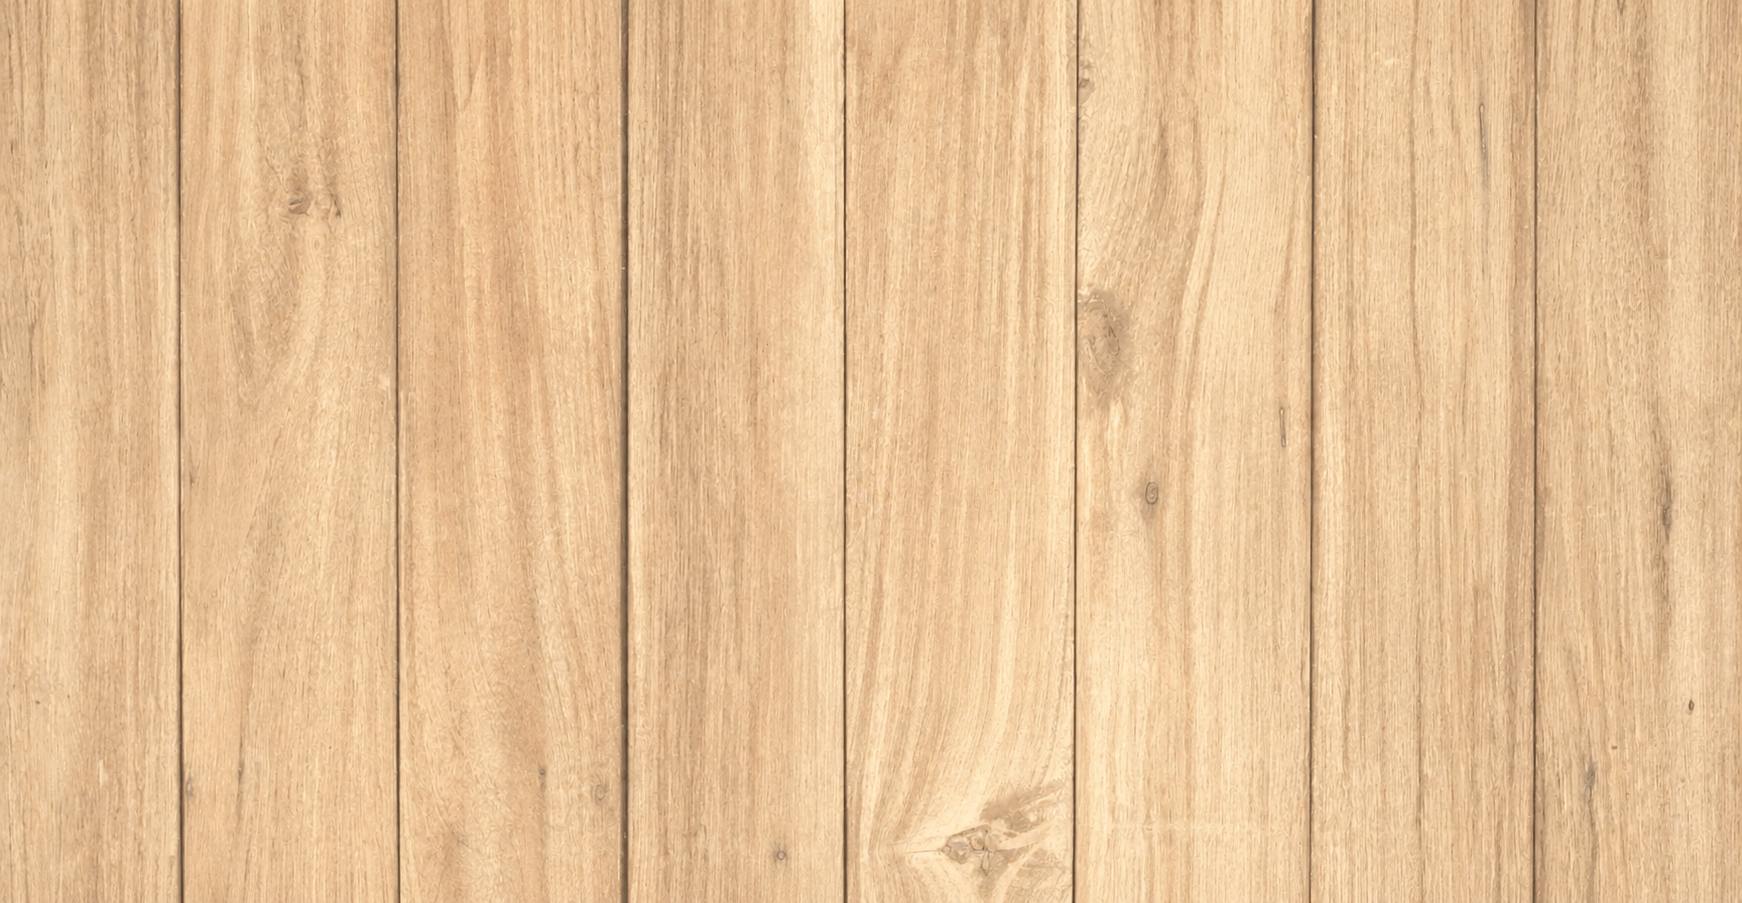
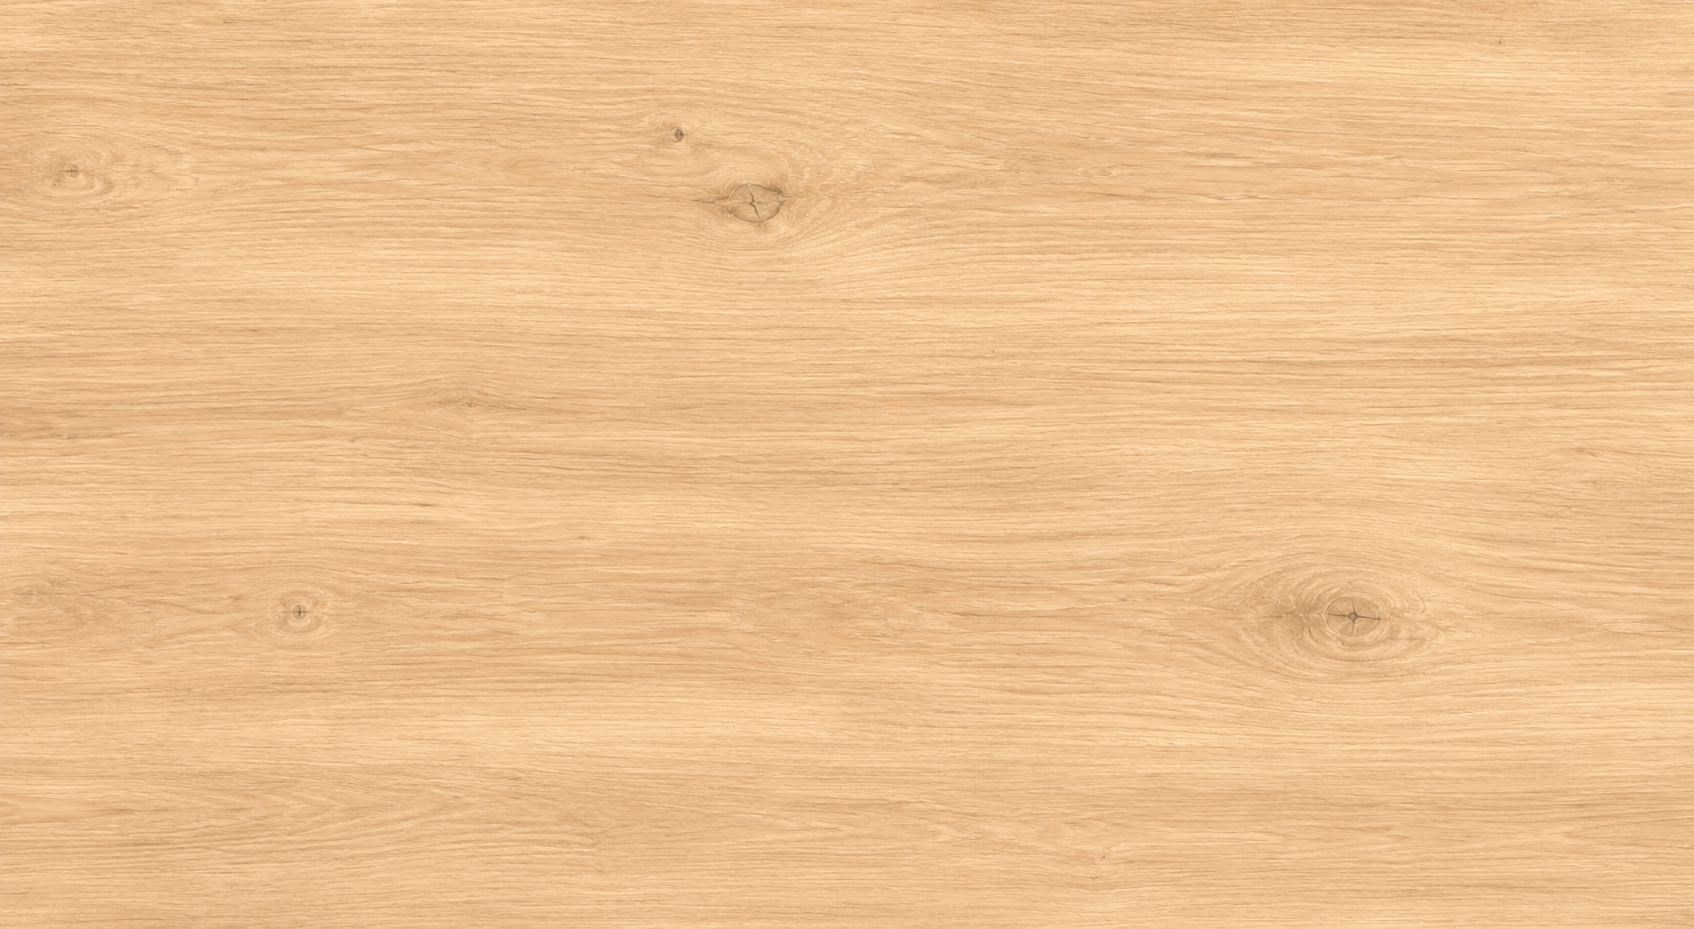
refactor: remove inventory carousel in favor of updated accordion section with header content

Changed region(s): [[0.0, 0.0, 1.0, 1.0]]

diff --git a/demo/index.html b/demo/index.html
@@ -554,7 +554,7 @@
 <!-- END: _services.html -->
 <!-- START: _reviews.html -->
       <!-- ═══════════════════════════ REVIEWS CAROUSEL ═══════════════════════════ -->
-      <div class="review-sec text-center pb-5" id="reviews" style="position: relative; padding-top: 140px; --wave-fill: #F0F7FF;">
+      <div class="review-sec text-center pb-2" id="reviews" style="position: relative; padding-top: 140px; --wave-fill: #F0F7FF;">
         <div class="section-wave-top">
           <svg data-name="Layer 1" xmlns="http://www.w3.org/2000/svg" viewBox="0 0 1200 120" preserveAspectRatio="none">
             <path d="M321.39,56.44c58-10.79,114.16-30.13,172-41.86,82.39-16.72,168.19-17.73,250.45-.39C823.78,31,906.67,72,985.66,92.83c70.05,18.48,146.53,26.09,214.34,3V0H0V27.35A600.21,600.21,0,0,0,321.39,56.44Z" class="wave-fill"></path>
@@ -669,125 +669,14 @@
       </div>
 
 <!-- END: _reviews.html -->
-<!-- START: _inventory.html -->
-      <!-- ═══════════════════════════ INVENTORY CAROUSEL ═══════════════════════════ -->
-      <section class="modern-carousel-section" id="inventory" style="position: relative; padding-top: 140px; --wave-fill: #E8F4FD;">
-        <div class="section-wave-top">
-          <svg data-name="Layer 1" xmlns="http://www.w3.org/2000/svg" viewBox="0 0 1200 120" preserveAspectRatio="none">
-            <path d="M321.39,56.44c58-10.79,114.16-30.13,172-41.86,82.39-16.72,168.19-17.73,250.45-.39C823.78,31,906.67,72,985.66,92.83c70.05,18.48,146.53,26.09,214.34,3V0H0V27.35A600.21,600.21,0,0,0,321.39,56.44Z" class="wave-fill"></path>
-          </svg>
-        </div>
-        <div class="mb-2"><h2>Hot Tubs For Sale</h2></div>
-
-        <div class="carousel-outer">
-
-          <div class="carousel-wrapper" id="carouselWrapper">
-
-            <div class="project-card">
-              <img src="/demo/images/inventory/luxury-spa.webp" loading="lazy" alt="Luxury 6-Person Spa">
-              <div class="card-content">
-                <span class="tag" style="background:#2E8B57;color:#fff;">New</span>
-                <h3>Luxury 6-Person Spa</h3>
-                <p>Premium 6-person hot tub with 40 jets, LED lighting, and premium stereo system.</p>
-              </div>
-            </div>
-
-            <div class="project-card">
-              <img src="/demo/images/inventory/4-person.webp" loading="lazy" alt="4-Person Hot Tub">
-              <div class="card-content">
-                <span class="tag" style="background:#4A90D9;color:#fff;">New</span>
-                <h3>4-Person Plug & Play</h3>
-                <p>Compact 4-person hot tub with 20 jets, energy-efficient pump, and easy setup.</p>
-              </div>
-            </div>
-
-            <div class="project-card">
-              <img src="/demo/images/inventory/used-deal.webp" loading="lazy" alt="Used Hot Tub Special">
-              <div class="card-content">
-                <span class="tag" style="background:#E8A317;color:#000;">Used</span>
-                <h3>Certified Pre-Owned Spa</h3>
-                <p>Fully refurbished 5-person hot tub with 1-year warranty. Like new condition!</p>
-              </div>
-            </div>
-
-            <div class="project-card">
-              <img src="/demo/images/inventory/7-person.webp" loading="lazy" alt="7-Person Hot Tub">
-              <div class="card-content">
-                <span class="tag" style="background:#2E8B57;color:#fff;">New</span>
-                <h3>7-Person Family Spa</h3>
-                <p>Spacious family hot tub with 50 jets, waterfall feature, and bench seating.</p>
-              </div>
-            </div>
-
-            <div class="project-card">
-              <img src="/demo/images/inventory/swim-spa.webp" loading="lazy" alt="Swim Spa">
-              <div class="card-content">
-                <span class="tag" style="background:#4A90D9;color:#fff;">New</span>
-                <h3>Swim Spa Exercise Pool</h3>
-                <p>14-foot swim spa with current system for exercise and relaxation combined.</p>
-              </div>
-            </div>
-
-            <div class="project-card">
-              <img src="/demo/images/inventory/used-bargain.webp" loading="lazy" alt="Used Hot Tub Bargain">
-              <div class="card-content">
-                <span class="tag" style="background:#E8A317;color:#000;">Used</span>
-                <h3>Budget-Friendly Used Tub</h3>
-                <p>Great starter hot tub at an unbeatable price. Tested and serviced and ready to go.</p>
-              </div>
-            </div>
-
-            <div class="project-card">
-              <img src="/demo/images/inventory/8-person.webp" loading="lazy" alt="8-Person Hot Tub">
-              <div class="card-content">
-                <span class="tag" style="background:#2E8B57;color:#fff;">New</span>
-                <h3>8-Person Entertainer</h3>
-                <p>Large capacity hot tub with lounge seat, LED therapy, and Bluetooth audio.</p>
-              </div>
-            </div>
-
-            <div class="project-card">
-              <img src="/demo/images/inventory/deluxe.webp" loading="lazy" alt="Deluxe Hot Tub">
-              <div class="card-content">
-                <span class="tag" style="background:#4A90D9;color:#fff;">New</span>
-                <h3>Deluxe 5-Person Spa</h3>
-                <p>Award-winning hydrotherapy jets, saltwater system, and energy-efficient insulation.</p>
-              </div>
-            </div>
-
-            <div class="project-card">
-              <img src="/demo/images/inventory/parts.webp" loading="lazy" alt="Parts & Accessories">
-              <div class="card-content">
-                <span class="tag" style="background:#1A3A5C;color:#fff;">Parts</span>
-                <h3>Covers, Chemicals & Parts</h3>
-                <p>Full line of hot tub covers, chemicals, filters, pumps, and replacement parts.</p>
-              </div>
-            </div>
-
-          </div>
-
-          <button class="carousel-arrow arrow-prev" id="arrowPrev" onclick="slideCarousel(-1)">&#8249;</button>
-          <button class="carousel-arrow arrow-next" id="arrowNext" onclick="slideCarousel(1)">&#8250;</button>
-
-          <div class="carousel-dots" id="carouselDots">
-            <span class="dot active" onclick="goToSlide(0)"></span>
-            <span class="dot" onclick="goToSlide(1)"></span>
-            <span class="dot" onclick="goToSlide(2)"></span>
-            <span class="dot" onclick="goToSlide(3)"></span>
-            <span class="dot" onclick="goToSlide(4)"></span>
-            <span class="dot" onclick="goToSlide(5)"></span>
-            <span class="dot" onclick="goToSlide(6)"></span>
-            <span class="dot" onclick="goToSlide(7)"></span>
-            <span class="dot" onclick="goToSlide(8)"></span>
-          </div>
-
-        </div>
-      </section>
-
-<!-- END: _inventory.html -->
 <!-- START: _accordion.html -->
 <!-- ═══════════════════════════ SHOWCASE SECTION ═══════════════════════════ -->
 <section class="inventory-accordion-section" id="accordion-section">
+  <div class="container text-center mb-5" style="position: relative; z-index: 10;">
+    <h4 class="services-subtitle" style="color: rgba(255, 255, 255, 0.5);">LUXURY COLLECTION</h4>
+    <h2 class="services-title" style="color: #fff; font-family: 'Playfair Display', serif; font-weight: 500;">Find Your Perfect Escape</h2>
+    <p class="services-desc" style="color: rgba(255, 255, 255, 0.75); max-width: 600px; margin-left: auto; margin-right: auto;">Explore our premium selection of hot tubs, swim spas, saunas, and custom pools designed to elevate your outdoor living.</p>
+  </div>
   <div class="accordion-container" id="inventoryAccordion">
     
     <!-- CARD 1 -->

diff --git a/public/index.html b/public/index.html
@@ -554,7 +554,7 @@
 <!-- END: _services.html -->
 <!-- START: _reviews.html -->
       <!-- ═══════════════════════════ REVIEWS CAROUSEL ═══════════════════════════ -->
-      <div class="review-sec text-center pb-5" id="reviews" style="position: relative; padding-top: 140px; --wave-fill: #F0F7FF;">
+      <div class="review-sec text-center pb-2" id="reviews" style="position: relative; padding-top: 140px; --wave-fill: #F0F7FF;">
         <div class="section-wave-top">
           <svg data-name="Layer 1" xmlns="http://www.w3.org/2000/svg" viewBox="0 0 1200 120" preserveAspectRatio="none">
             <path d="M321.39,56.44c58-10.79,114.16-30.13,172-41.86,82.39-16.72,168.19-17.73,250.45-.39C823.78,31,906.67,72,985.66,92.83c70.05,18.48,146.53,26.09,214.34,3V0H0V27.35A600.21,600.21,0,0,0,321.39,56.44Z" class="wave-fill"></path>
@@ -669,125 +669,14 @@
       </div>
 
 <!-- END: _reviews.html -->
-<!-- START: _inventory.html -->
-      <!-- ═══════════════════════════ INVENTORY CAROUSEL ═══════════════════════════ -->
-      <section class="modern-carousel-section" id="inventory" style="position: relative; padding-top: 140px; --wave-fill: #E8F4FD;">
-        <div class="section-wave-top">
-          <svg data-name="Layer 1" xmlns="http://www.w3.org/2000/svg" viewBox="0 0 1200 120" preserveAspectRatio="none">
-            <path d="M321.39,56.44c58-10.79,114.16-30.13,172-41.86,82.39-16.72,168.19-17.73,250.45-.39C823.78,31,906.67,72,985.66,92.83c70.05,18.48,146.53,26.09,214.34,3V0H0V27.35A600.21,600.21,0,0,0,321.39,56.44Z" class="wave-fill"></path>
-          </svg>
-        </div>
-        <div class="mb-2"><h2>Hot Tubs For Sale</h2></div>
-
-        <div class="carousel-outer">
-
-          <div class="carousel-wrapper" id="carouselWrapper">
-
-            <div class="project-card">
-              <img src="/demo/images/inventory/luxury-spa.webp" loading="lazy" alt="Luxury 6-Person Spa">
-              <div class="card-content">
-                <span class="tag" style="background:#2E8B57;color:#fff;">New</span>
-                <h3>Luxury 6-Person Spa</h3>
-                <p>Premium 6-person hot tub with 40 jets, LED lighting, and premium stereo system.</p>
-              </div>
-            </div>
-
-            <div class="project-card">
-              <img src="/demo/images/inventory/4-person.webp" loading="lazy" alt="4-Person Hot Tub">
-              <div class="card-content">
-                <span class="tag" style="background:#4A90D9;color:#fff;">New</span>
-                <h3>4-Person Plug & Play</h3>
-                <p>Compact 4-person hot tub with 20 jets, energy-efficient pump, and easy setup.</p>
-              </div>
-            </div>
-
-            <div class="project-card">
-              <img src="/demo/images/inventory/used-deal.webp" loading="lazy" alt="Used Hot Tub Special">
-              <div class="card-content">
-                <span class="tag" style="background:#E8A317;color:#000;">Used</span>
-                <h3>Certified Pre-Owned Spa</h3>
-                <p>Fully refurbished 5-person hot tub with 1-year warranty. Like new condition!</p>
-              </div>
-            </div>
-
-            <div class="project-card">
-              <img src="/demo/images/inventory/7-person.webp" loading="lazy" alt="7-Person Hot Tub">
-              <div class="card-content">
-                <span class="tag" style="background:#2E8B57;color:#fff;">New</span>
-                <h3>7-Person Family Spa</h3>
-                <p>Spacious family hot tub with 50 jets, waterfall feature, and bench seating.</p>
-              </div>
-            </div>
-
-            <div class="project-card">
-              <img src="/demo/images/inventory/swim-spa.webp" loading="lazy" alt="Swim Spa">
-              <div class="card-content">
-                <span class="tag" style="background:#4A90D9;color:#fff;">New</span>
-                <h3>Swim Spa Exercise Pool</h3>
-                <p>14-foot swim spa with current system for exercise and relaxation combined.</p>
-              </div>
-            </div>
-
-            <div class="project-card">
-              <img src="/demo/images/inventory/used-bargain.webp" loading="lazy" alt="Used Hot Tub Bargain">
-              <div class="card-content">
-                <span class="tag" style="background:#E8A317;color:#000;">Used</span>
-                <h3>Budget-Friendly Used Tub</h3>
-                <p>Great starter hot tub at an unbeatable price. Tested and serviced and ready to go.</p>
-              </div>
-            </div>
-
-            <div class="project-card">
-              <img src="/demo/images/inventory/8-person.webp" loading="lazy" alt="8-Person Hot Tub">
-              <div class="card-content">
-                <span class="tag" style="background:#2E8B57;color:#fff;">New</span>
-                <h3>8-Person Entertainer</h3>
-                <p>Large capacity hot tub with lounge seat, LED therapy, and Bluetooth audio.</p>
-              </div>
-            </div>
-
-            <div class="project-card">
-              <img src="/demo/images/inventory/deluxe.webp" loading="lazy" alt="Deluxe Hot Tub">
-              <div class="card-content">
-                <span class="tag" style="background:#4A90D9;color:#fff;">New</span>
-                <h3>Deluxe 5-Person Spa</h3>
-                <p>Award-winning hydrotherapy jets, saltwater system, and energy-efficient insulation.</p>
-              </div>
-            </div>
-
-            <div class="project-card">
-              <img src="/demo/images/inventory/parts.webp" loading="lazy" alt="Parts & Accessories">
-              <div class="card-content">
-                <span class="tag" style="background:#1A3A5C;color:#fff;">Parts</span>
-                <h3>Covers, Chemicals & Parts</h3>
-                <p>Full line of hot tub covers, chemicals, filters, pumps, and replacement parts.</p>
-              </div>
-            </div>
-
-          </div>
-
-          <button class="carousel-arrow arrow-prev" id="arrowPrev" onclick="slideCarousel(-1)">&#8249;</button>
-          <button class="carousel-arrow arrow-next" id="arrowNext" onclick="slideCarousel(1)">&#8250;</button>
-
-          <div class="carousel-dots" id="carouselDots">
-            <span class="dot active" onclick="goToSlide(0)"></span>
-            <span class="dot" onclick="goToSlide(1)"></span>
-            <span class="dot" onclick="goToSlide(2)"></span>
-            <span class="dot" onclick="goToSlide(3)"></span>
-            <span class="dot" onclick="goToSlide(4)"></span>
-            <span class="dot" onclick="goToSlide(5)"></span>
-            <span class="dot" onclick="goToSlide(6)"></span>
-            <span class="dot" onclick="goToSlide(7)"></span>
-            <span class="dot" onclick="goToSlide(8)"></span>
-          </div>
-
-        </div>
-      </section>
-
-<!-- END: _inventory.html -->
 <!-- START: _accordion.html -->
 <!-- ═══════════════════════════ SHOWCASE SECTION ═══════════════════════════ -->
 <section class="inventory-accordion-section" id="accordion-section">
+  <div class="container text-center mb-5" style="position: relative; z-index: 10;">
+    <h4 class="services-subtitle" style="color: rgba(255, 255, 255, 0.5);">LUXURY COLLECTION</h4>
+    <h2 class="services-title" style="color: #fff; font-family: 'Playfair Display', serif; font-weight: 500;">Find Your Perfect Escape</h2>
+    <p class="services-desc" style="color: rgba(255, 255, 255, 0.75); max-width: 600px; margin-left: auto; margin-right: auto;">Explore our premium selection of hot tubs, swim spas, saunas, and custom pools designed to elevate your outdoor living.</p>
+  </div>
   <div class="accordion-container" id="inventoryAccordion">
     
     <!-- CARD 1 -->

diff --git a/public/src/_accordion.html b/public/src/_accordion.html
@@ -1,5 +1,10 @@
 <!-- ═══════════════════════════ SHOWCASE SECTION ═══════════════════════════ -->
 <section class="inventory-accordion-section" id="accordion-section">
+  <div class="container text-center mb-5" style="position: relative; z-index: 10;">
+    <h4 class="services-subtitle" style="color: rgba(255, 255, 255, 0.5);">LUXURY COLLECTION</h4>
+    <h2 class="services-title" style="color: #fff; font-family: 'Playfair Display', serif; font-weight: 500;">Find Your Perfect Escape</h2>
+    <p class="services-desc" style="color: rgba(255, 255, 255, 0.75); max-width: 600px; margin-left: auto; margin-right: auto;">Explore our premium selection of hot tubs, swim spas, saunas, and custom pools designed to elevate your outdoor living.</p>
+  </div>
   <div class="accordion-container" id="inventoryAccordion">
     
     <!-- CARD 1 -->

diff --git a/public/src/_reviews.html b/public/src/_reviews.html
@@ -1,5 +1,5 @@
       <!-- ═══════════════════════════ REVIEWS CAROUSEL ═══════════════════════════ -->
-      <div class="review-sec text-center pb-5" id="reviews" style="position: relative; padding-top: 140px; --wave-fill: #F0F7FF;">
+      <div class="review-sec text-center pb-2" id="reviews" style="position: relative; padding-top: 140px; --wave-fill: #F0F7FF;">
         <div class="section-wave-top">
           <svg data-name="Layer 1" xmlns="http://www.w3.org/2000/svg" viewBox="0 0 1200 120" preserveAspectRatio="none">
             <path d="M321.39,56.44c58-10.79,114.16-30.13,172-41.86,82.39-16.72,168.19-17.73,250.45-.39C823.78,31,906.67,72,985.66,92.83c70.05,18.48,146.53,26.09,214.34,3V0H0V27.35A600.21,600.21,0,0,0,321.39,56.44Z" class="wave-fill"></path>

diff --git a/public/build.js b/public/build.js
@@ -21,7 +21,6 @@ const pages = {
     '_about.html',
     '_services.html',
     '_reviews.html',
-    '_inventory.html',
     '_accordion.html',
     '_badges.html',
     '_serving.html',

diff --git a/demo/css/home.css b/demo/css/home.css
@@ -2,7 +2,7 @@
 .inventory-accordion-section {
   width: 100vw;
   max-width: 100%;
-  padding: 0;
+  padding: 80px 0 0;
   margin: 0;
   overflow: hidden;
   background: #0a0a0a;

diff --git a/public/css/home.css b/public/css/home.css
@@ -2,7 +2,7 @@
 .inventory-accordion-section {
   width: 100vw;
   max-width: 100%;
-  padding: 0;
+  padding: 80px 0 0;
   margin: 0;
   overflow: hidden;
   background: #0a0a0a;
